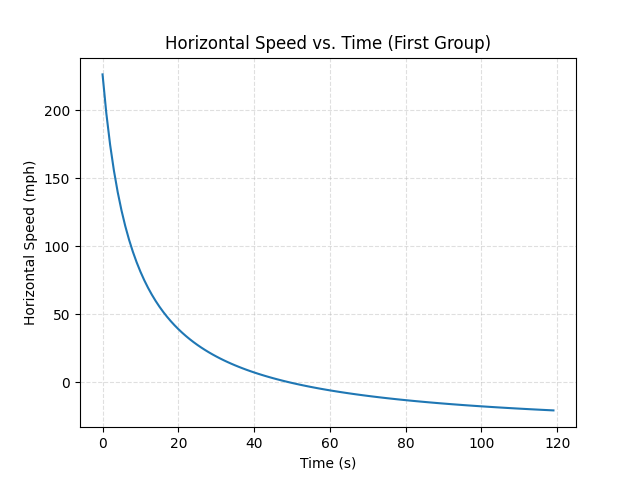
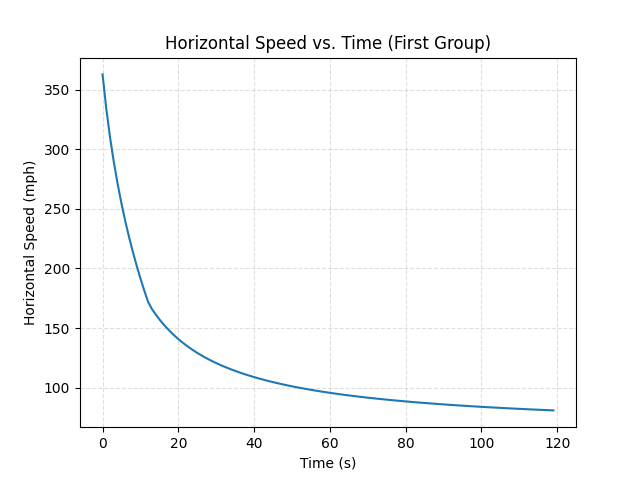
Fixed if/else logic issue, granular winds aloft now functional

diff --git a/main.py b/main.py
@@ -3,14 +3,11 @@
 # TODO: Figure out equation for tracking from 5000 to 3500 feet (wing with a
 #       constant angle with respect to the ground with an initial vert/horiz
 #       speed based on whatever it is at z = 5000)
-# TODO: Add more configurability with respect to group types (ability to change
-#       number of belly fliers, freefliers, etc.)
 # TODO: Verify/fix freefly CD and A values to reflect real data
-# TODO: Add more granular winds aloft layers to reflect different wind speeds
-#       at different altitudes (V_upper)
 # TODO: Clean up / Comment code
 # TODO: Add option to import data from CSV file of the load, including number
 #       of groups, discipline for each group, average mass of the group, etc.
+# TODO: Add in y[t] to be able to create 3D plots
 
 # Python Built-In imports
 import time
@@ -28,10 +25,6 @@ import const
 import winds as wind
 from parameters import Params
 from skydiver import Skydiver
-
-# NOTE NOTE NOTE NOTE NOTE NOTE NOTE DEBUG VARIABLE
-simple = True
-# NOTE NOTE NOTE NOTE NOTE NOTE NOTE 
 
 # Initialize params class, which will prompt user to setup parameter values
 params = Params()
@@ -78,10 +71,13 @@ def adjust_for_uppers(u, x, z, jump_run, winds):
     #print(winds)
     for t in range(len(u)):
         u_adj = wind.compute_wind_adj(jump_run, z[t], winds)[0]
-        u[t] = u[t] + u_adj
 
-        # TODO CONTINUE HERE, CHANGING INDEX ABOVE FROM 0 TO 1 MADE THINGS LOOK BETTER,
-        # THINKING IT MAY BE A SIGN ISSUE ON THE wind.compute_wind_adj SIDE
+        # u (x velocity) adjustment DEBUG
+        uadj_debug = False
+        if uadj_debug is True:
+            print("altitude = " + str(z[t]*const.M_TO_FT) + " u[t] = " + str(u[t]) + ", u_adj = " + str(u_adj))
+        
+        u[t] = u[t] + u_adj
         x[t] = x[t] + u_adj*t 
     return u, x
 
@@ -138,12 +134,16 @@ def plot_trajectories(trajectories):
     # the color red if distance is less than the ideal separation distance
     # (nominally 1000 feet) and green otherwise
     min_color = 'r' if min_sep_dist < params.IDEAL_SEP else 'g'
-    plt.hlines(params.PULL_ALT+200, min_dist_0, min_dist_1, colors=min_color, label=str(min_sep_dist), linestyle='--')
-    plt.text((min_dist_0 + min_dist_1)/2 - const.BLAZE_IT, params.PULL_ALT+300, str(round(min_sep_dist)) + " ft", color=min_color)
+    plt.hlines(params.PULL_ALT+200, min_dist_0, min_dist_1, colors=min_color, \
+               label=str(min_sep_dist), linestyle='--')
+    plt.text((min_dist_0 + min_dist_1)/2 - const.BLAZE_IT, params.PULL_ALT+300, \
+             str(round(min_sep_dist)) + " ft", color=min_color)
     
     max_color = 'r' if max_sep_dist < params.IDEAL_SEP else 'g'
-    plt.hlines(params.PULL_ALT+200, max_dist_0, max_dist_1, colors=max_color, label=str(max_sep_dist), linestyle='--')
-    plt.text((max_dist_0 + max_dist_1)/2 - const.BLAZE_IT, params.PULL_ALT+300, str(round(max_sep_dist)) + " ft", color=max_color)
+    plt.hlines(params.PULL_ALT+200, max_dist_0, max_dist_1, colors=max_color, \
+               label=str(max_sep_dist), linestyle='--')
+    plt.text((max_dist_0 + max_dist_1)/2 - const.BLAZE_IT, params.PULL_ALT+300, \
+             str(round(max_sep_dist)) + " ft", color=max_color)
 
     # Save figure to file and return 0
     plt.savefig("z_vs_x_all_groups.png")
@@ -158,14 +158,17 @@ if __name__ == "__main__":
 
     # Initialize runtime variables
     winds = wind.get_forecast()
-    print(winds)
+    #print(winds)
+    wind.print_winds(winds)
 
     Q = 0                                       # rho*A*CD, to keep code clean
     V_upper_adj = wind.compute_wind_adj(params.jump_run, \
                                         params.EXIT_ALT/const.M_TO_FT, \
                                         winds)
-                                        
-    if simple is True:
+
+    # Winds Aloft DEBUG - makes them constant at 180 from jump run
+    simple_winds = False
+    if simple_winds is True:
         Vg = Va - V_upper
     else:
         Vg = Va + V_upper_adj[0]                    # Aircraft groundspeed in m/s
@@ -197,7 +200,7 @@ if __name__ == "__main__":
             z = jumper.compute_z(t, z0, Va, Q)
 
         # Account for drift due to uppers    
-        if simple is True:
+        if simple_winds is True:
             u = u - V_upper
             x = x - V_upper*t
         else:
@@ -209,12 +212,13 @@ if __name__ == "__main__":
             "x" : x*const.M_TO_FT,
             "z" : z*const.M_TO_FT
         })
-        
-    # print(trajectories)
-    # DEBUG = 0
-    # if DEBUG == 1:
-    #    for i, z in enumerate(trajectories[0]['z']):
-    #        print("time = " + str(i) + " sec, Altitude = " + str(z) + " ft")
+  
+    # Trajectory DEBUG
+    traj_debug = False
+    if traj_debug is True:
+        print(trajectories)
+        for i, z in enumerate(trajectories[0]['z']):
+            print("time = " + str(i) + " sec, Altitude = " + str(z) + " ft")
 
     ###################
     #      PLOTS      #

diff --git a/winds.py b/winds.py
@@ -54,74 +54,52 @@ def compute_wind_adj(jump_run, altitude, winds):
     altitude = altitude * const.M_TO_FT    
 
     # Interpolate linearly between closest angles to get theta for altitude
-    if altitude <= 3000:
-        theta = np.deg2rad(np.abs(winds['3000'][0] - jump_run))
-        speed = winds['3000'][1]
-    elif altitude < 6000:
-        theta_w = np.interp(altitude, [3000, 6000], \
-            [winds['3000'][0], winds['6000'][0]])
-        theta = np.deg2rad(np.abs(theta_w - jump_run))
-        speed = np.interp(altitude, [3000, 6000], \
-            [winds['3000'][1], winds['6000'][1]])
-    elif altitude == 6000: # Don't want to lose precision from interpolating...
-        theta = np.deg2rad(np.abs(winds['6000'][0] - jump_run))
-        speed = winds['6000'][1]
-    elif altitude < 9000:
-        theta_w = np.interp(altitude, [6000, 9000], \
-            [winds['6000'][0], winds['9000'][0]])
-        theta = np.deg2rad(np.abs(theta_w - jump_run))
-        speed = np.interp(altitude, [6000, 9000], \
-            [winds['6000'][1], winds['9000'][1]])
-    elif altitude == 9000:
-        theta = np.deg2rad(np.abs(winds['9000'][0] - jump_run))
-        speed = winds['9000'][1]
-    elif altitude < 12000:
-        theta_w = np.interp(altitude, [9000, 12000], \
-            [winds['9000'][0], winds['12000'][0]])
-        theta = np.deg2rad(np.abs(theta_w - jump_run))
-        speed = np.interp(altitude, [9000, 12000], \
-            [winds['9000'][1], winds['12000'][1]])
-    elif altitude == 12000:
-        theta = np.deg2rad(np.abs(winds['12000'][0] - jump_run))
-        speed = winds['12000'][1]
+    if altitude >= 18000:
+        theta = np.deg2rad(np.abs(winds['18000'][0] - jump_run))
+        speed = winds['18000'][1]
     elif altitude < 18000:
         theta_w = np.interp(altitude, [12000, 18000], \
             [winds['12000'][0], winds['18000'][0]])
         theta = np.deg2rad(np.abs(theta_w - jump_run))
         speed = np.interp(altitude, [12000, 18000], \
             [winds['12000'][1], winds['18000'][1]])
-    elif altitude >= 18000:
-        theta = np.deg2rad(np.abs(winds['18000'][0] - jump_run))
-        speed = winds['18000'][1]
+    elif altitude == 12000:
+        theta = np.deg2rad(np.abs(winds['12000'][0] - jump_run))
+        speed = winds['12000'][1]
+    elif altitude < 12000:
+        theta_w = np.interp(altitude, [9000, 12000], \
+            [winds['9000'][0], winds['12000'][0]])
+        theta = np.deg2rad(np.abs(theta_w - jump_run))
+        speed = np.interp(altitude, [9000, 12000], \
+            [winds['9000'][1], winds['12000'][1]])
+    elif altitude == 9000:
+        theta = np.deg2rad(np.abs(winds['9000'][0] - jump_run))
+        speed = winds['9000'][1]
+    elif altitude < 9000:
+        theta_w = np.interp(altitude, [6000, 9000], \
+            [winds['6000'][0], winds['9000'][0]])
+        theta = np.deg2rad(np.abs(theta_w - jump_run))
+        speed = np.interp(altitude, [6000, 9000], \
+            [winds['6000'][1], winds['9000'][1]])
+    elif altitude == 6000: # Don't want to lose precision from interpolating...
+        theta = np.deg2rad(np.abs(winds['6000'][0] - jump_run))
+        speed = winds['6000'][1]
+    elif altitude < 6000:
+        theta_w = np.interp(altitude, [3000, 6000], \
+            [winds['3000'][0], winds['6000'][0]])
+        theta = np.deg2rad(np.abs(theta_w - jump_run))
+        speed = np.interp(altitude, [3000, 6000], \
+            [winds['3000'][1], winds['6000'][1]])
+    elif altitude <= 3000:
+        theta = np.deg2rad(np.abs(winds['3000'][0] - jump_run))
+        speed = winds['3000'][1]
 
     #print("altitude = " + str(altitude) + ", theta = " + str(np.rad2deg(theta)) + ", speed = " + str(speed))
 
     speed = speed * const.KT_TO_MPS
         
-    print(speed*np.cos(theta))
     return (speed*np.cos(theta), speed*np.sin(theta))
 
 def print_winds(winds):
     for altitude in winds:
         print(winds[altitude])
-
-#print_winds(winds)
-#print("\nConverting to X/Y format\n")
-#winds = compass_rotate(winds)
-#print_winds(winds)
-#
-#print("\nHere goes...trying compute_wind_adj:\n")
-#jr = 270
-#compute_wind_adj(jr, 1500, winds)
-#compute_wind_adj(jr, 3000, winds)
-#compute_wind_adj(jr, 4500, winds)
-#compute_wind_adj(jr, 6000, winds)
-#compute_wind_adj(jr, 7500, winds)
-#compute_wind_adj(jr, 9000, winds)
-#compute_wind_adj(jr, 10500, winds)
-#compute_wind_adj(jr, 12000, winds)
-#compute_wind_adj(jr, 13500, winds)
-#compute_wind_adj(jr, 15000, winds)
-#compute_wind_adj(jr, 18000, winds)
-#compute_wind_adj(jr, 23000, winds)
-#
